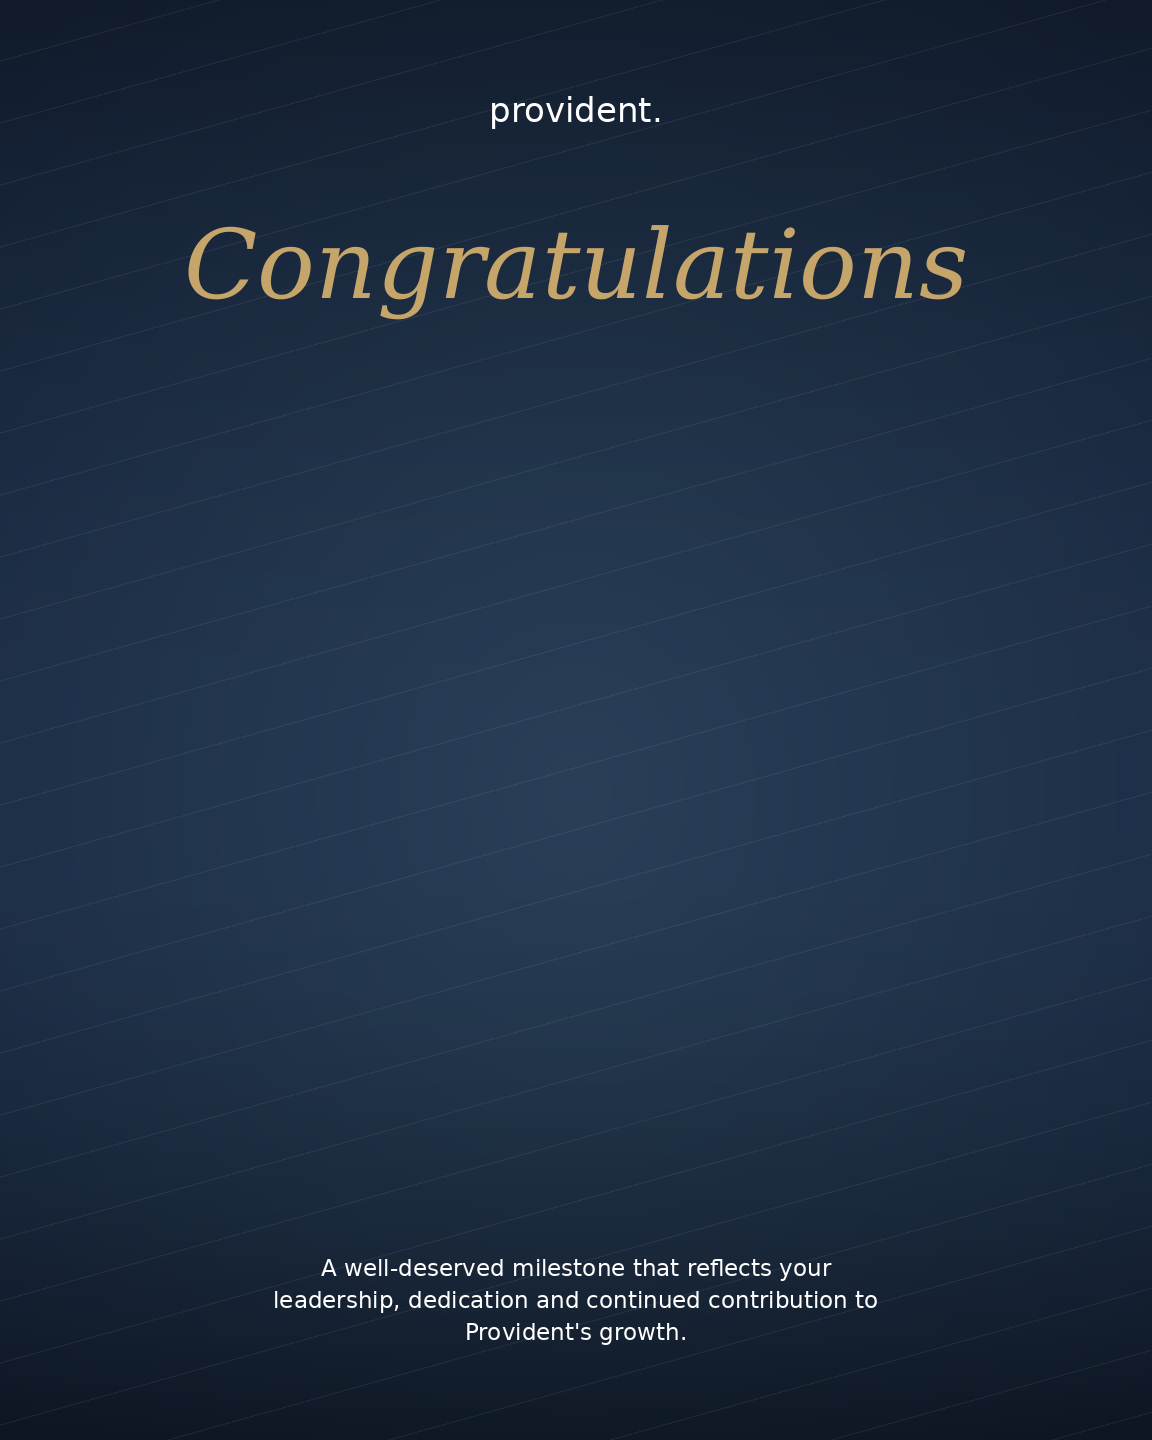
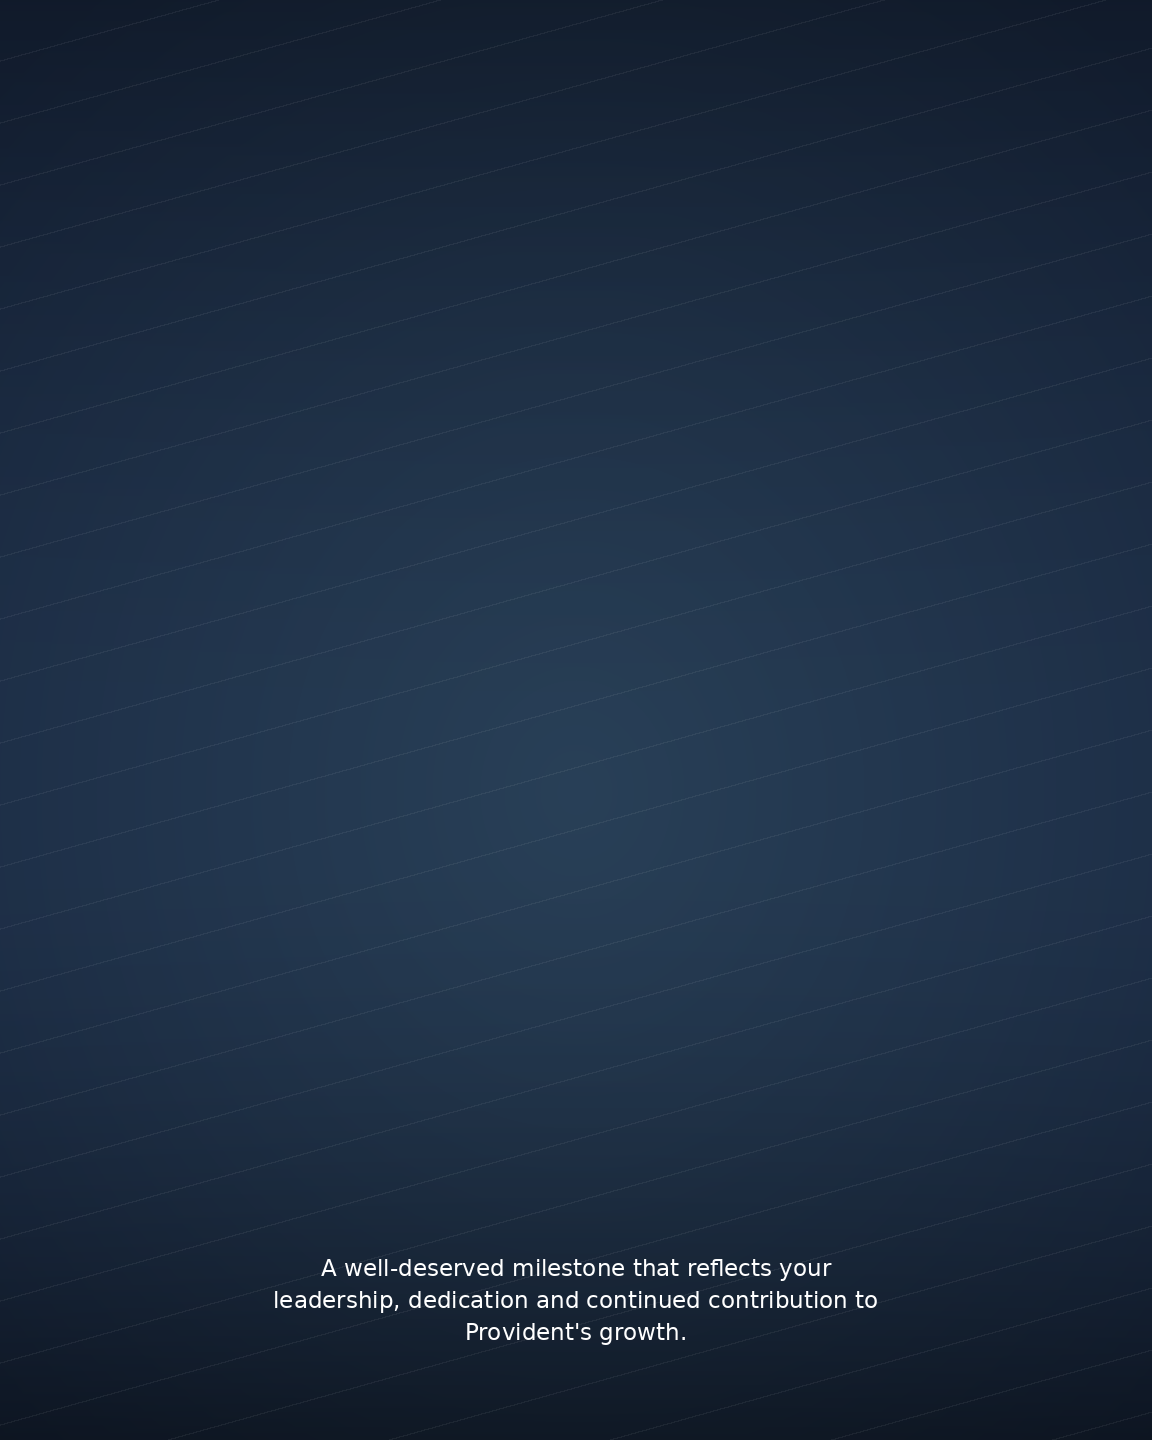
Promotion: real gold Congratulations script (SVG); provident. wordmark on promotion + onboarding posts
Claude-Session: https://claude.ai/code/session_01RQe63zUNwqDnmcsZia1cNM

Changed region(s): [[0.1562, 0.1562, 0.8438, 0.2188], [0.4062, 0.0625, 0.5625, 0.0938]]

diff --git a/src/tools/promotion/promotion-tool.tsx b/src/tools/promotion/promotion-tool.tsx
@@ -29,12 +29,16 @@ const MANUAL = "__manual__";
 export function PromotionTool() {
   const [background, setBackground] = useState<HTMLImageElement | null>(null);
   const [frame, setFrame] = useState<HTMLImageElement | null>(null);
+  const [wordmark, setWordmark] = useState<HTMLImageElement | null>(null);
+  const [script, setScript] = useState<HTMLImageElement | null>(null);
   const [fontReady, setFontReady] = useState(false);
   const [fontError, setFontError] = useState<string | null>(null);
   useEffect(() => {
     let alive = true;
     loadImage(PROMOTION.assets.background).then((img) => alive && setBackground(img)).catch(() => alive && setFontError("Could not load the design artwork."));
     loadImage(PROMOTION.assets.frame).then((img) => alive && setFrame(img)).catch(() => {});
+    loadImage(PROMOTION.assets.wordmark).then((img) => alive && setWordmark(img)).catch(() => {});
+    loadImage(PROMOTION.assets.script).then((img) => alive && setScript(img)).catch(() => {});
     ensurePostFont().then((r) => {
       if (!alive) return;
       setFontReady(r.ok);
@@ -119,8 +123,8 @@ export function PromotionTool() {
   const ready = !!background && fontReady && problems.length === 0;
 
   const input = useMemo(
-    () => (background ? { background, frame, photo, photoTransform: photoT, name, title, showPlaceholders: true } : null),
-    [background, frame, photo, photoT, name, title],
+    () => (background ? { background, frame, wordmark, script, photo, photoTransform: photoT, name, title, showPlaceholders: true } : null),
+    [background, frame, wordmark, script, photo, photoT, name, title],
   );
   const stateKey = JSON.stringify([!!photo, useCutout && !!cutout, photoT, name, title]);
   const result = exported?.key === stateKey ? exported.result : null;

diff --git a/src/tools/onboarding/onboarding-tool.tsx b/src/tools/onboarding/onboarding-tool.tsx
@@ -29,12 +29,14 @@ const MANUAL = "__manual__";
 export function OnboardingTool() {
   const [background, setBackground] = useState<HTMLImageElement | null>(null);
   const [bottomFade, setBottomFade] = useState<HTMLImageElement | null>(null);
+  const [wordmark, setWordmark] = useState<HTMLImageElement | null>(null);
   const [fontReady, setFontReady] = useState(false);
   const [fontError, setFontError] = useState<string | null>(null);
   useEffect(() => {
     let alive = true;
     loadImage(ONBOARDING.assets.background).then((img) => alive && setBackground(img)).catch(() => alive && setFontError("Could not load the design artwork."));
     loadImage(ONBOARDING.assets.bottomFade).then((img) => alive && setBottomFade(img)).catch(() => {});
+    loadImage(ONBOARDING.assets.wordmark).then((img) => alive && setWordmark(img)).catch(() => {});
     ensurePostFont().then((r) => {
       if (!alive) return;
       setFontReady(r.ok);
@@ -120,8 +122,8 @@ export function OnboardingTool() {
   const ready = !!background && fontReady && problems.length === 0;
 
   const input = useMemo(
-    () => (background ? { background, bottomFade, photo, photoTransform: photoT, name, title, showPlaceholders: true } : null),
-    [background, bottomFade, photo, photoT, name, title],
+    () => (background ? { background, bottomFade, wordmark, photo, photoTransform: photoT, name, title, showPlaceholders: true } : null),
+    [background, bottomFade, wordmark, photo, photoT, name, title],
   );
   const stateKey = JSON.stringify([!!photo, useCutout && !!cutout, photoT, name, title]);
   const result = exported?.key === stateKey ? exported.result : null;

diff --git a/src/tools/promotion/template.ts b/src/tools/promotion/template.ts
@@ -3,7 +3,7 @@
  * Birthday-template › Frame 1618872990 (node 174:133498), 1152 × 1440 (4:5).
  *
  * Layers, bottom to top: background artwork (navy gradient, circle pattern, both gradients, the
- * "provident." wordmark, the gold script "Congratulations" and the fixed closing paragraph) → the
+ * fixed closing paragraph) → the "provident." wordmark and the gold script "Congratulations" (both SVG layers drawn by code) → the
  * colleague's photo (cutout, cover-fit in the frame box, clipped so it never runs past the frame's
  * bottom edge but may rise above its top) → the thin gold frame outline → name + promotion line.
  */
@@ -19,7 +19,13 @@ export const PROMOTION = {
     background: "/tools/promotion/background.png",
     /** Transparent PNG of the "profile frame" outline only (1152×1440), drawn above the photo. */
     frame: "/tools/promotion/frame.png",
+    /** White "provident." wordmark (Figma "prov logo", 184×36.4). */
+    wordmark: "/tools/_shared/provident-wordmark-white.svg",
+    /** Gold script "Congratulations" (Figma vector export, 626×131.4). */
+    script: "/tools/promotion/congratulations.svg",
   },
+  wordmark: { x: 483.8, y: 92.5, w: 183.9, h: 36.4 },
+  script: { x: 262.8, y: 198.7, w: 626, h: 131.4 },
   /** The profile frame's inner box — the photo is cover-fitted here. */
   photo: { x: 322, y: 496.4, w: 508.7, h: 713.1, radius: 40 },
   name: { cy: 389.6, size: 51.7, weight: 400, color: "#F4F1EC", maxWidth: 860, minSize: 32, maxChars: 40 },

diff --git a/src/tools/promotion/render.ts b/src/tools/promotion/render.ts
@@ -5,6 +5,8 @@ import { PROMOTION } from "./template";
 export type PromotionInput = {
   background: Drawable;
   frame: Drawable | null;
+  wordmark: Drawable | null;
+  script: Drawable | null;
   photo: Drawable | null;
   photoTransform: PhotoTransform;
   name: string;
@@ -84,8 +86,10 @@ export function renderPromotion(ctx: CanvasRenderingContext2D, input: PromotionI
     ctx.restore();
   }
 
-  // 3. Frame outline above the photo
+  // 3. Frame outline above the photo, then the wordmark and the script headline
   if (input.frame) ctx.drawImage(input.frame, 0, 0, T.width, T.height);
+  if (input.wordmark) ctx.drawImage(input.wordmark, T.wordmark.x, T.wordmark.y, T.wordmark.w, T.wordmark.h);
+  if (input.script) ctx.drawImage(input.script, T.script.x, T.script.y, T.script.w, T.script.h);
 
   // 4. Text
   ctx.textAlign = "center";

diff --git a/src/tools/onboarding/render.ts b/src/tools/onboarding/render.ts
@@ -5,6 +5,7 @@ import { ONBOARDING } from "./template";
 export type OnboardingInput = {
   background: Drawable;
   bottomFade: Drawable | null;
+  wordmark: Drawable | null;
   photo: Drawable | null;
   photoTransform: PhotoTransform;
   name: string;
@@ -74,6 +75,9 @@ export function renderOnboarding(ctx: CanvasRenderingContext2D, input: Onboardin
 
   // 3. Bottom fade over the photo
   if (input.bottomFade) ctx.drawImage(input.bottomFade, 0, T.height - T.fade.h, T.width, T.fade.h);
+
+  // 3b. Wordmark
+  if (input.wordmark) ctx.drawImage(input.wordmark, T.wordmark.x, T.wordmark.y, T.wordmark.w, T.wordmark.h);
 
   // 4. Text
   ctx.textAlign = "center";

diff --git a/src/tools/onboarding/template.ts b/src/tools/onboarding/template.ts
@@ -18,7 +18,10 @@ export const ONBOARDING = {
     background: "/tools/onboarding/background.png",
     /** Transparent PNG of the "bottom gradient" layer as it appears (1080×515), drawn at the bottom edge. */
     bottomFade: "/tools/onboarding/bottom-fade.png",
+    /** White "provident." wordmark, centred at the top (not in the Figma frame — added per brand). */
+    wordmark: "/tools/_shared/provident-wordmark-white.svg",
   },
+  wordmark: { x: 448, y: 78, w: 183.9, h: 36.4 },
   photo: { x: 245, y: 443, w: 622, h: 897 },
   fade: { h: 515 },
   headline: { text: "Welcome Aboard!", cy: 242.4, size: 87.9, weight: 400, color: "#FFFFFF", maxWidth: 960 },

diff --git a/src/tools/onboarding/README.md b/src/tools/onboarding/README.md
@@ -2,7 +2,7 @@
 
 Entry: `index.tsx` → `onboarding-tool.tsx`. Geometry: `template.ts` (measured from Figma "Birthday-template" node 131:185, 1080×1350). Renderer: `render.ts`.
 
-Layers: `public/tools/onboarding/background.png` (flattened navy gradient + circle pattern + upper gradient) → new joiner's photo, cover-fit in the 622×897 box, clipped → `public/tools/onboarding/bottom-fade.png` (1080×515, fades the photo into the background) → fixed headline + sub text, name (Regular 42 white), designation (Regular 20.2 gold, caps).
+Layers: `public/tools/onboarding/background.png` (flattened navy gradient + circle pattern + upper gradient; the white "provident." wordmark is drawn from `public/tools/_shared/provident-wordmark-white.svg`, centred at the top) → new joiner's photo, cover-fit in the 622×897 box, clipped → `public/tools/onboarding/bottom-fade.png` (1080×515, fades the photo into the background) → fixed headline + sub text, name (Regular 42 white), designation (Regular 20.2 gold, caps).
 
 Fields: pick from the employee list (prefills name, designation, photo) or type manually; photo upload with size slider + drag. On upload the background is removed automatically in the browser (`src/tools/_shared/remove-bg.ts`, see the shared README) behind a full-screen overlay with the robot video; a Removed / Original toggle appears once it's done and "Use the photo as it is" on the overlay skips the wait.
 

diff --git a/src/tools/promotion/README.md b/src/tools/promotion/README.md
@@ -6,6 +6,6 @@ Layers: `public/tools/promotion/background.png` (flattened: navy gradient, circl
 
 Fields: pick from the employee list (prefills name + photo — the designation field stays empty because it's the *new* role) or type manually; photo upload with size slider + drag. Background removal runs automatically on upload (`_shared/remove-bg.ts`), with the robot overlay and a Removed / Original toggle.
 
-**Assets:** the two PNGs in `public/tools/promotion/` are code-generated stand-ins. Export the real layers from Figma at 1× (1152×1440) and replace them, same file names: `background.png` = everything except the "profile frame" layer and the two editable texts; `frame.png` = the "profile frame" layer alone on a transparent canvas.
+**Assets:** the two PNGs in `public/tools/promotion/` are code-generated stand-ins. Export the real layers from Figma at 1× (1152×1440) and replace them, same file names: `background.png` = everything except the "profile frame", "prov logo", "Congratulations" layers and the two editable texts (the logo and script are drawn from SVG by code); `frame.png` = the "profile frame" layer alone on a transparent canvas.
 
 Depends on: `_shared/` (font, export, remove-bg, `PhotoDropzone`, `Counter`), `@/lib/demo/employees`, `@/lib/store`, `@/components/ui/{button,input,label,select}`, `@/lib/utils`.
